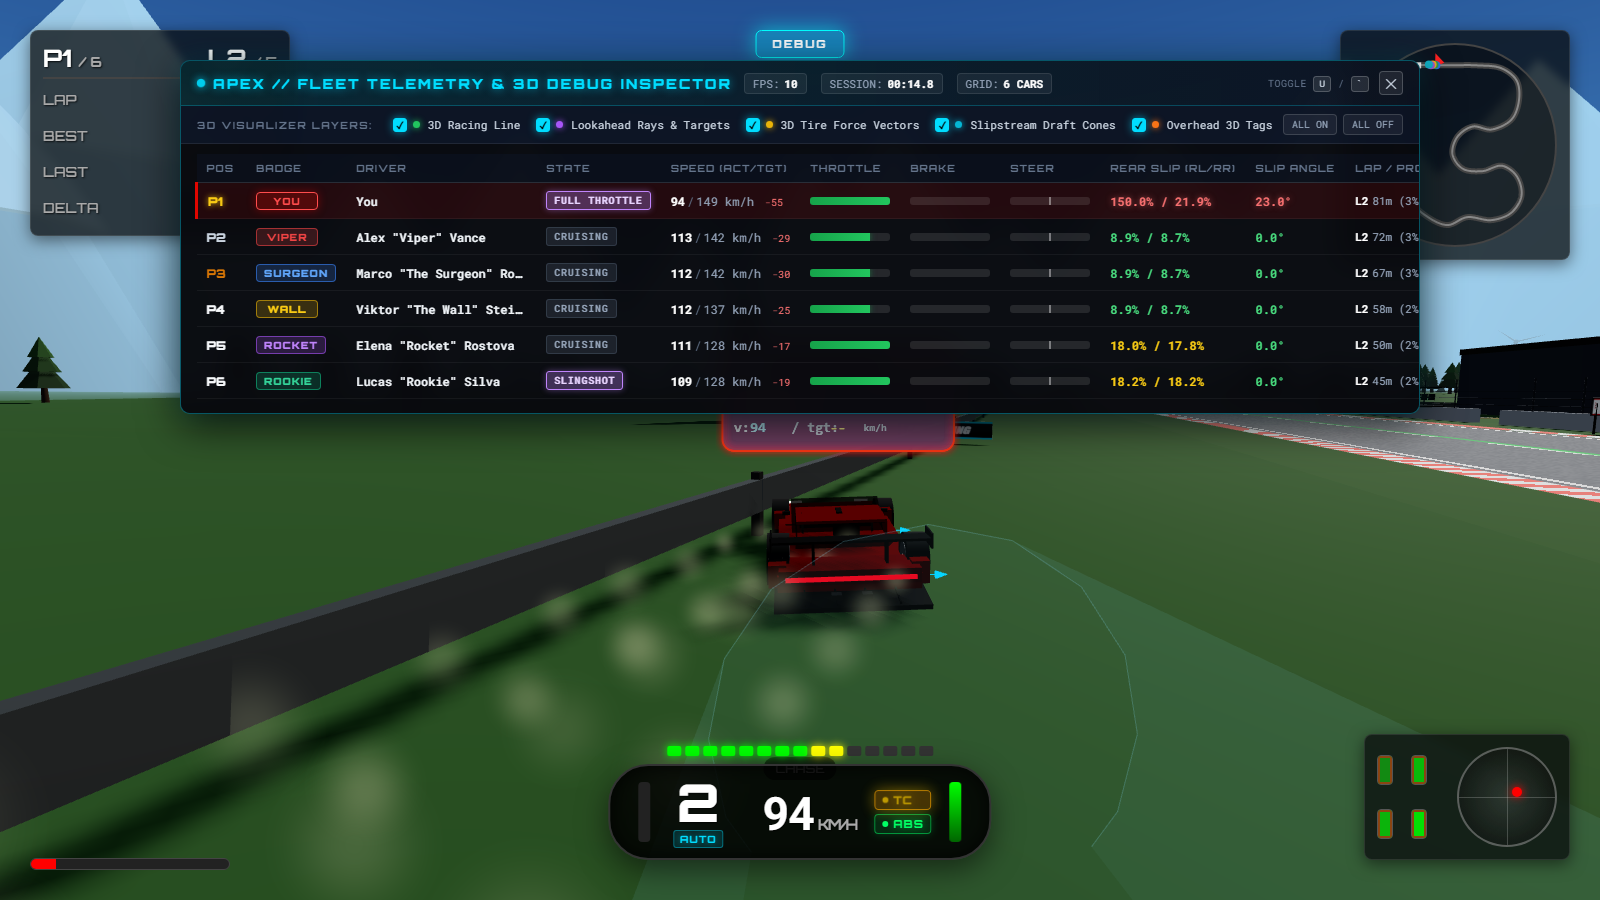
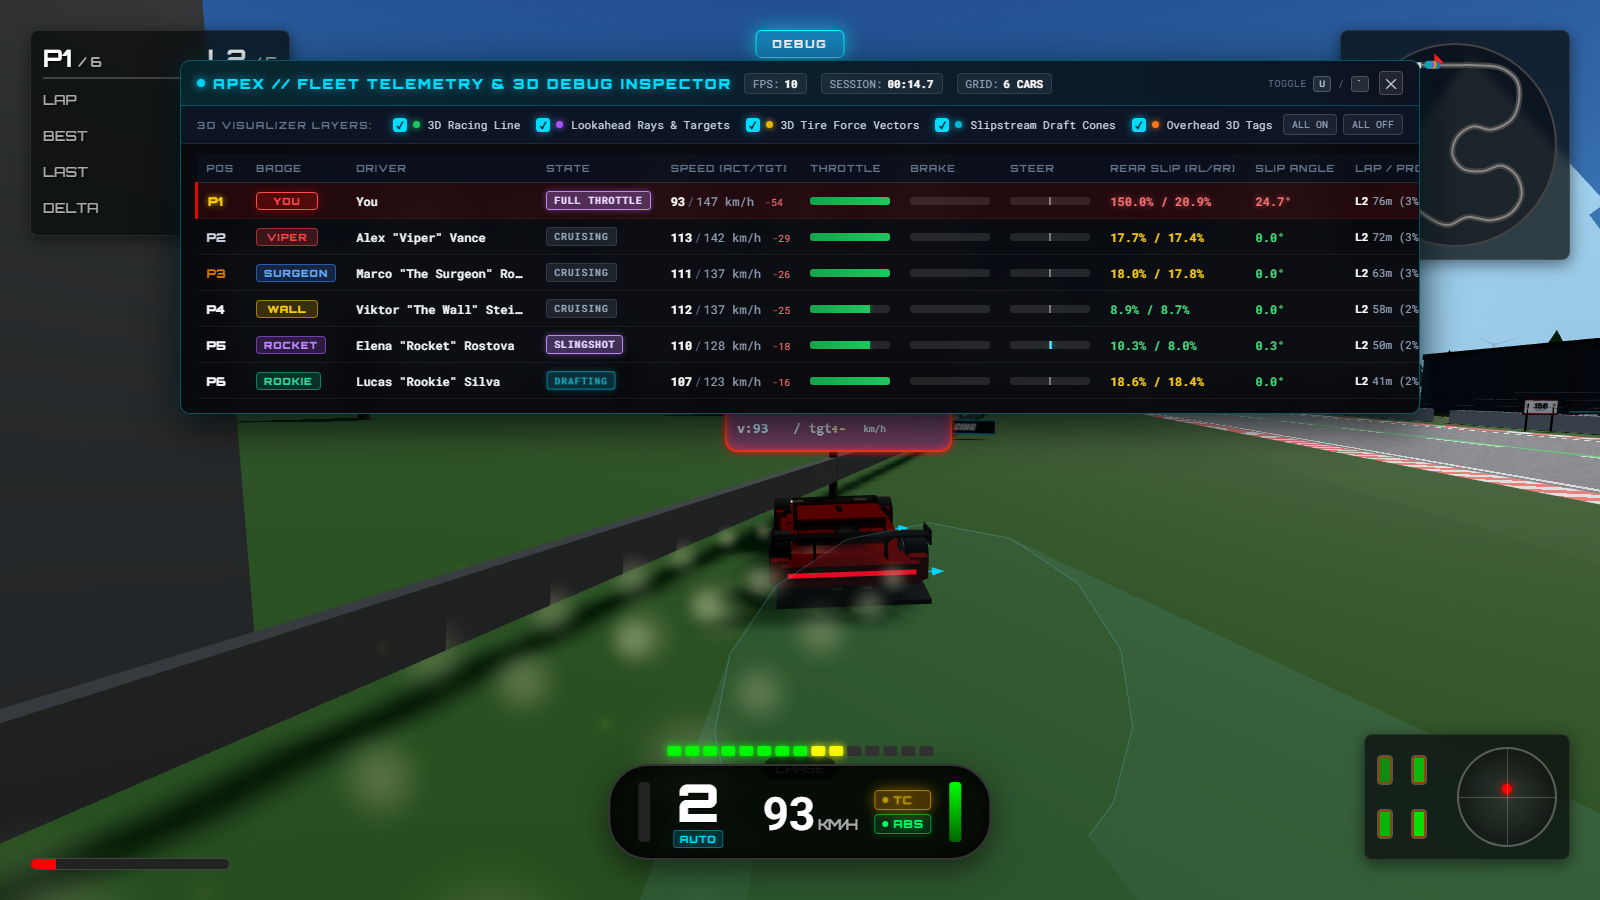
fix(ai): enforce disciplined racecraft, smooth straight-line drafting overtakes, and soft contact restitution

diff --git a/src/ai/aiDriver.js b/src/ai/aiDriver.js
@@ -394,24 +394,18 @@ export function updateAiDriver(driver, cars, dt, active = true) {
     const fwd = dx * cosH - dz * sinH;
     const latO = -dx * sinH - dz * cosH;
     const closingSpeed = v - (o.speed || 0);
-    const inDirectPath = Math.abs(latO) < 1.45; // True direct rear-end alignment
+    const inDirectPath = Math.abs(latO) < 1.25;
 
-    // 1. Slipstream Drafting & High-Speed Tow (fwd: 5m to 45m)
-    if (fwd > 5.0 && fwd < 45.0 && Math.abs(latO) < 3.2) {
-      draftMod = Math.max(draftMod, arch.draftSpeedBoost || 1.08);
-      driver.draftTimer = Math.min(2.5, (driver.draftTimer || 0) + dt * 1.5);
+    // 1. Clean Slipstream Drafting & High-Speed Tow on Straights (fwd: 4m to 40m)
+    if (!isUpcomingCorner && fwd > 4.0 && fwd < 40.0 && Math.abs(latO) < 2.8) {
+      draftMod = Math.max(draftMod, arch.draftSpeedBoost || 1.06);
+      driver.draftTimer = Math.min(2.0, (driver.draftTimer || 0) + dt);
 
-      // Opportunistic Passing Lane Commitment:
-      // When closing on the car ahead, pick open side of track and commit to passing lane!
-      if (fwd < 30.0) {
-        let passSide = latO >= 0 ? -1.5 : 1.5;
-        // Prefer inside lane if approaching a corner
-        if (isUpcomingCorner && insideDir !== 0) {
-          passSide = insideDir * (arch.yieldLat ? Math.abs(arch.yieldLat) * 0.75 : 1.4);
-        }
-        // Validate track boundary
-        if (passSide < 0 && (currentLateral < -halfTrackWidth + 1.8)) passSide = 1.4;
-        else if (passSide > 0 && (currentLateral > halfTrackWidth - 1.8)) passSide = -1.4;
+      // Smooth Passing Lane Offset on Straights:
+      if (fwd < 26.0 && closingSpeed > -0.2) {
+        let passSide = (latO >= 0 ? -1.2 : 1.2);
+        if (passSide < 0 && (currentLateral < -halfTrackWidth + 1.8)) passSide = 1.2;
+        else if (passSide > 0 && (currentLateral > halfTrackWidth - 1.8)) passSide = -1.2;
 
         targetOvertakeLat = passSide;
         driver.slingshotActive = true;
@@ -421,63 +415,33 @@ export function updateAiDriver(driver, cars, dt, active = true) {
       if (driver.draftTimer <= 0) driver.slingshotActive = false;
     }
 
-    // 2. Late-Braking Divebombs (Alex "Viper", Elena "Rocket", Marco "The Surgeon")
-    if (isUpcomingCorner && fwd > 2.0 && fwd < 24.0 && closingSpeed > 0.3) {
-      if ((arch.diveAggression || 1.0) > 0.6) {
-        driver.divebombActive = true;
-        const diveLat = insideDir !== 0 ? insideDir * (arch.yieldLat ? Math.abs(arch.yieldLat) * 0.75 : 1.4) : (latO >= 0 ? -1.4 : 1.4);
-        targetOvertakeLat = diveLat;
-      }
-    } else {
-      driver.divebombActive = false;
-    }
-
-    // 3. Defensive Line Covering (Viktor "The Wall", Marco "The Surgeon")
-    if (fwd > -25.0 && fwd < -2.0 && Math.abs(latO) < 3.5) {
-      if (isUpcomingCorner && (arch.defenseAggression || 0) > 0.5) {
-        targetDefendLat = insideDir !== 0 ? insideDir * (1.1 * (arch.defenseAggression || 1.0)) : (latO > 0 ? 1.1 : -1.1);
+    // 2. Corner Entry Pacing: smooth speed modulation when trailing directly behind
+    if (fwd > 0.5 && fwd < 10.0 && inDirectPath) {
+      if (isUpcomingCorner || (o.input && o.input.brake > 0.1) || closingSpeed > 0.5) {
+        const paceRatio = clamp((fwd - 2.8) / 7.0, 0.70, 1.0);
+        slowFactor = Math.min(slowFactor, paceRatio);
       }
     }
 
-    // 4. Side-by-Side Wheel-to-Wheel Spatial Clearance (2.0m Dynamic Corridor)
-    if (Math.abs(fwd) < 4.8 && Math.abs(latO) < 2.4) {
-      const overlap = clamp(2.4 - Math.abs(latO), 0, 2.0);
+    // 3. Side-by-Side Spatial Clearance (Wheel-to-Wheel respect)
+    if (Math.abs(fwd) < 4.2 && Math.abs(latO) < 2.2) {
+      const overlap = clamp(2.2 - Math.abs(latO), 0, 1.5);
       if (latO > 0) {
-        // Opponent on left -> hold right lane
-        targetYieldLat -= Math.max(overlap * 0.75, 0.4);
+        targetYieldLat -= Math.max(overlap * 0.5, 0.25);
       } else {
-        // Opponent on right -> hold left lane
-        targetYieldLat += Math.max(overlap * 0.75, 0.4);
+        targetYieldLat += Math.max(overlap * 0.5, 0.25);
       }
     }
 
-    // 5. Anti-Crash Emergency TTC Radar (Only when directly in collision path)
-    if (fwd > 0.8 && fwd < 20.0 && inDirectPath) {
-      if (closingSpeed > 1.5 && fwd < 18.0) {
-        const ttc = fwd / closingSpeed;
-        if (ttc < 0.95) {
-          const eBrake = clamp((0.95 - ttc) * 1.8, 0.4, 1.0);
-          maxEmergencyBrake = Math.max(maxEmergencyBrake, eBrake);
-          avoidanceActive = true;
-          if (targetOvertakeLat === 0) {
-            targetOvertakeLat = latO >= 0 ? -2.2 : 2.2;
-          }
-        }
-      }
-
-      // Point-blank rear proximity buffer (< 3.8m directly behind)
-      if (fwd < 3.8 && closingSpeed > 0) {
-        const proxBrake = clamp((3.8 - fwd) / 2.5, 0.3, 0.85);
-        maxEmergencyBrake = Math.max(maxEmergencyBrake, proxBrake);
-        avoidanceActive = true;
-        if (targetOvertakeLat === 0) {
-          targetOvertakeLat = latO >= 0 ? -2.2 : 2.2;
-        }
-      }
+    // 4. Anti-Crash Emergency Safety Buffer (Point-blank only)
+    if (fwd > 0.5 && fwd < 5.0 && inDirectPath && closingSpeed > 0.5) {
+      const proxBrake = clamp((5.0 - fwd) / 3.5, 0.35, 0.90);
+      maxEmergencyBrake = Math.max(maxEmergencyBrake, proxBrake);
+      avoidanceActive = true;
     }
 
-    // 6. Pressure & Mistake Detection
-    if (fwd > -4.0 && fwd < 4.0 && Math.abs(latO) < 3.0) {
+    // 5. Pressure & Mistake Detection
+    if (fwd > -3.5 && fwd < 3.5 && Math.abs(latO) < 2.5) {
       isUnderPressure = true;
     }
   }
@@ -485,35 +449,33 @@ export function updateAiDriver(driver, cars, dt, active = true) {
   driver.emergencyBrake = maxEmergencyBrake;
   driver.avoidanceActive = avoidanceActive;
 
-  // Pressure accumulation & mistake simulation
+  // Pressure accumulation & subtle driver mistake simulation
   if (isUnderPressure) {
     driver.pressureTimer = (driver.pressureTimer || 0) + dt;
-    if (driver.mistakeCooldown <= 0 && driver.pressureTimer > 0.5) {
-      if (Math.random() < (arch.mistakeProb || 0.04)) {
-        // Trigger mistake under close pressure
-        const types = ['lateBrake', 'wideLine', 'hesitation'];
+    if (driver.mistakeCooldown <= 0 && driver.pressureTimer > 0.8) {
+      if (Math.random() < (arch.mistakeProb || 0.02) * 0.5) {
+        const types = ['hesitation', 'wideLine'];
         driver.mistakeType = types[Math.floor(Math.random() * types.length)];
-        driver.mistakeDuration = 0.9;
-        driver.mistakeCooldown = 5.5;
+        driver.mistakeDuration = 0.6;
+        driver.mistakeCooldown = 8.0;
 
         if (driver.mistakeType === 'wideLine') {
-          // Slide 0.7m wide (away from inside apex)
-          driver.mistakeLat = insideDir !== 0 ? -insideDir * 0.7 : (Math.random() > 0.5 ? 0.7 : -0.7);
+          driver.mistakeLat = insideDir !== 0 ? -insideDir * 0.4 : 0.4;
         }
       }
     }
   } else {
-    driver.pressureTimer = Math.max(0, (driver.pressureTimer || 0) - dt * 1.5);
+    driver.pressureTimer = Math.max(0, (driver.pressureTimer || 0) - dt * 2.0);
   }
 
-  // Smooth filter dynamic offsets with agile steering response
-  const filterRate = clamp(dt * (avoidanceActive || driver.slingshotActive ? 7.5 : 4.5), 0, 1);
+  // Smooth filter dynamic offsets
+  const filterRate = clamp(dt * (avoidanceActive ? 6.0 : 3.5), 0, 1);
   driver.defendLat += (targetDefendLat - driver.defendLat) * filterRate;
   driver.overtakeLat += (targetOvertakeLat - driver.overtakeLat) * filterRate;
   driver.yieldLat += (targetYieldLat - driver.yieldLat) * filterRate;
 
   let totalExtraLat = driver.defendLat + driver.overtakeLat + driver.yieldLat + driver.mistakeLat;
-  totalExtraLat = clamp(totalExtraLat, -halfTrackWidth, halfTrackWidth);
+  totalExtraLat = clamp(totalExtraLat, -halfTrackWidth + 1.2, halfTrackWidth - 1.2);
 
   // Neural Network policy execution (if trained policy is supplied)
   const obs = getObs(car, track, driver.line);

diff --git a/src/physics/car.js b/src/physics/car.js
@@ -483,7 +483,7 @@ export function collideCars(cars, dt) {
   const CIRCLE_OFFSET = 1.2;
   const RAD_SUM = 1.90;
   const RAD_SUM_SQ = 3.61;
-  const RESTITUTION = 0.35;
+  const RESTITUTION = 0.08;
 
   for (let i = 0; i < nCars; i++) {
     const carA = cars[i];
@@ -602,8 +602,11 @@ export function collideCars(cars, dt) {
               const impact = Math.abs(v_rel_n);
               carA.wallHit = Math.max(carA.wallHit, clamp(impact / 6.0, 0, 1));
               carB.wallHit = Math.max(carB.wallHit, clamp(impact / 6.0, 0, 1));
-              carA.damage = clamp(carA.damage + impact * 0.015, 0, 1);
-              carB.damage = clamp(carB.damage + impact * 0.015, 0, 1);
+              if (impact > 2.5) {
+                const dmg = (impact - 2.5) * 0.04 * dt;
+                carA.damage = clamp(carA.damage + dmg, 0, 1);
+                carB.damage = clamp(carB.damage + dmg, 0, 1);
+              }
 
               if (!carA._lastContact) carA._lastContact = { pos: new THREE.Vector3(), impact: 0 };
               carA._lastContact.pos.set(contactX, contactY, contactZ);
